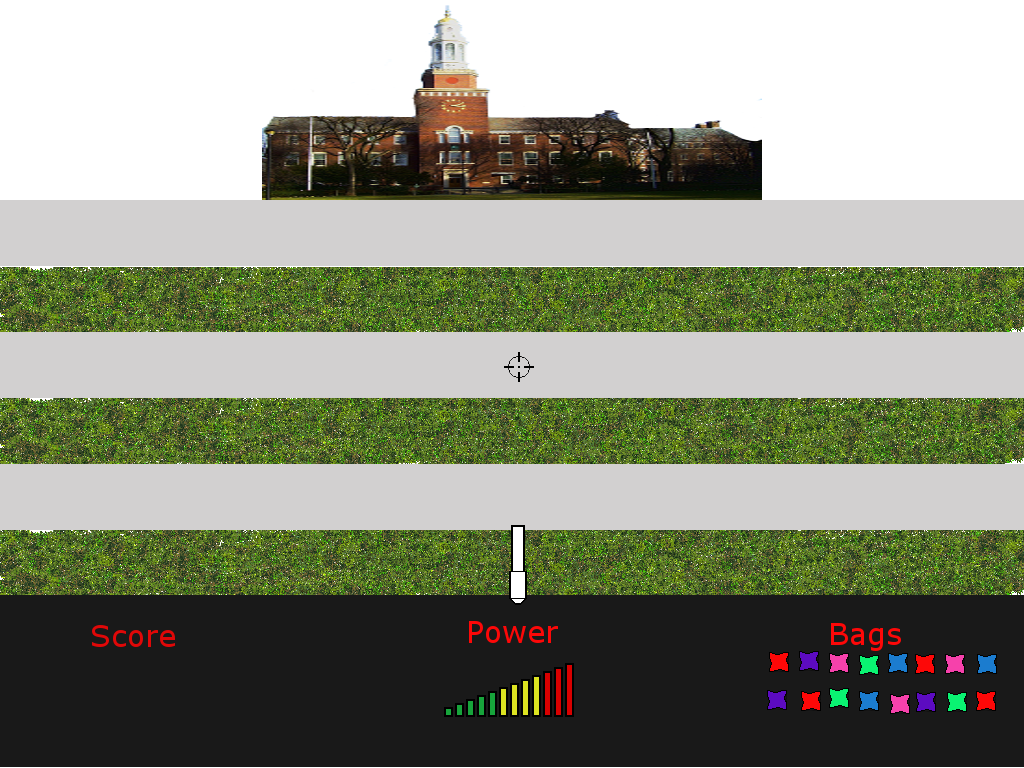
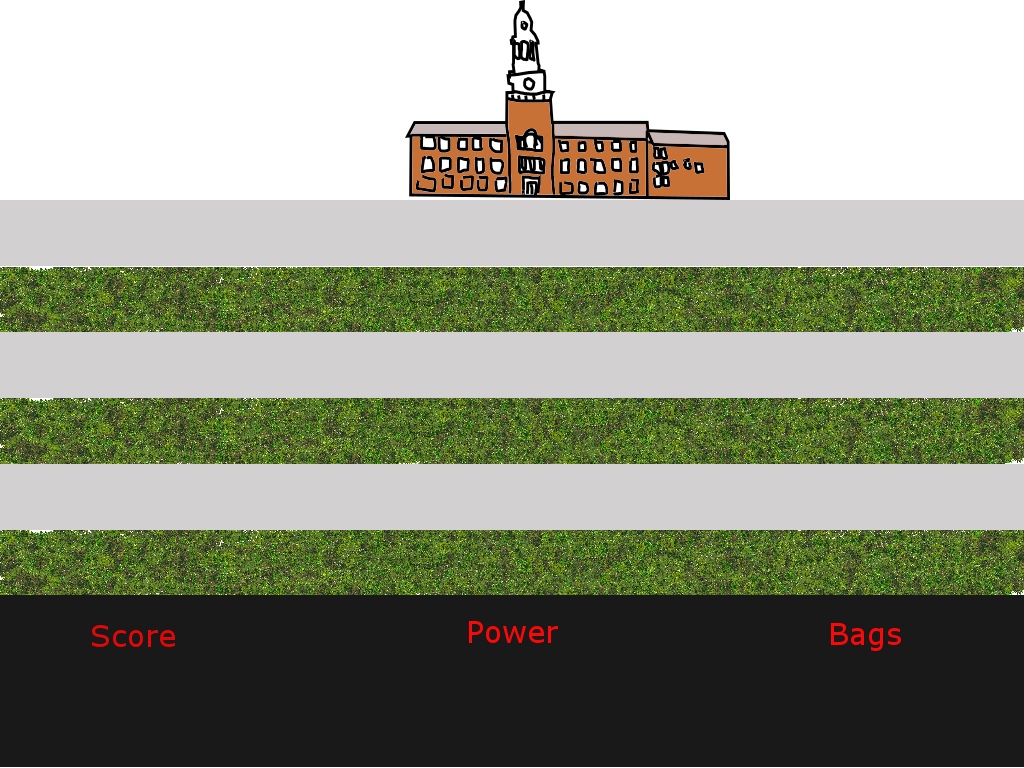
updated background image/made it fit better

diff --git a/SlingGame/src/com/game/src/main/GamePanel.java b/SlingGame/src/com/game/src/main/GamePanel.java
@@ -1,6 +1,7 @@
 package com.game.src.main;
 
 import java.awt.Canvas;
+import java.awt.Color;
 import java.awt.Dimension;
 import java.awt.Graphics;
 import java.awt.event.KeyEvent;
@@ -18,7 +19,7 @@ import javax.swing.JFrame;
  */
 public class GamePanel extends Canvas implements Runnable {
 	//uses runnable to execute the game in a thread
-
+	
 	private static final long serialVersionUID = 1L;
 
 	//Game Canvas size
@@ -53,16 +54,16 @@ public class GamePanel extends Canvas implements Runnable {
 	 * init function to initialize game elements such as images and key listeners for now
 	 */
 	public void init() {
-
 		requestFocus(); // this will make it so that the game window doesn't need be clicked when run
 
-		// This calles the image loader
+		// This calls the image loader
 		BufferedImageLoader loader = new BufferedImageLoader();
+		
 
 		/*****IMAGES LOADED HERE************/
 		try {
 			spriteSheet = loader.loadImage("/wcrosshair.png");
-			background = loader.loadImage("/background.png");
+			background = loader.loadImage("/background.jpg");
 		} catch (IOException e) {
 			e.printStackTrace();
 		}
@@ -168,15 +169,12 @@ public class GamePanel extends Canvas implements Runnable {
 		Graphics g = bs.getDrawGraphics();
 
 		/*****IMAGES RENDERED HERE************/
-
 		g.drawImage(image, 0, 0, getWidth(), getHeight(), this);
 
-		g.drawImage(background, 0, 0, null);
+		g.drawImage(background, 0, 0, getWidth(), getHeight(), this);
 
 		p.render(g);
-
 		/*****IMAGES RENDERED HERE************/
-
 		g.dispose(); //cleaup graphics resources
 		bs.show(); // display
 	}
@@ -189,7 +187,6 @@ public class GamePanel extends Canvas implements Runnable {
 	public void keyPressed(KeyEvent e) {
 		int key = e.getKeyCode(); //determines the key pressed
 		int moveSpeed = 10; //move speed when key pressed
-
 		/**
 		 * below is the behavior for the directional keys. 
 		 */
@@ -241,11 +238,9 @@ public class GamePanel extends Canvas implements Runnable {
 		frame.pack(); //sets desired sizes to the frame
 		frame.setDefaultCloseOperation(JFrame.EXIT_ON_CLOSE); //behavior when window is closed
 		frame.setResizable(false); //window cannot be changed in size
-		//frame.setLocationRelativeTo(null); 
+		//frame.setLocationRelativeTo(null);
 		frame.setVisible(true); //visibility
-
 		game.start(); //start game thread
-
 	}
 	/**
 	 * get sprite sheet method to load the image buffer of the sprite sheet.
